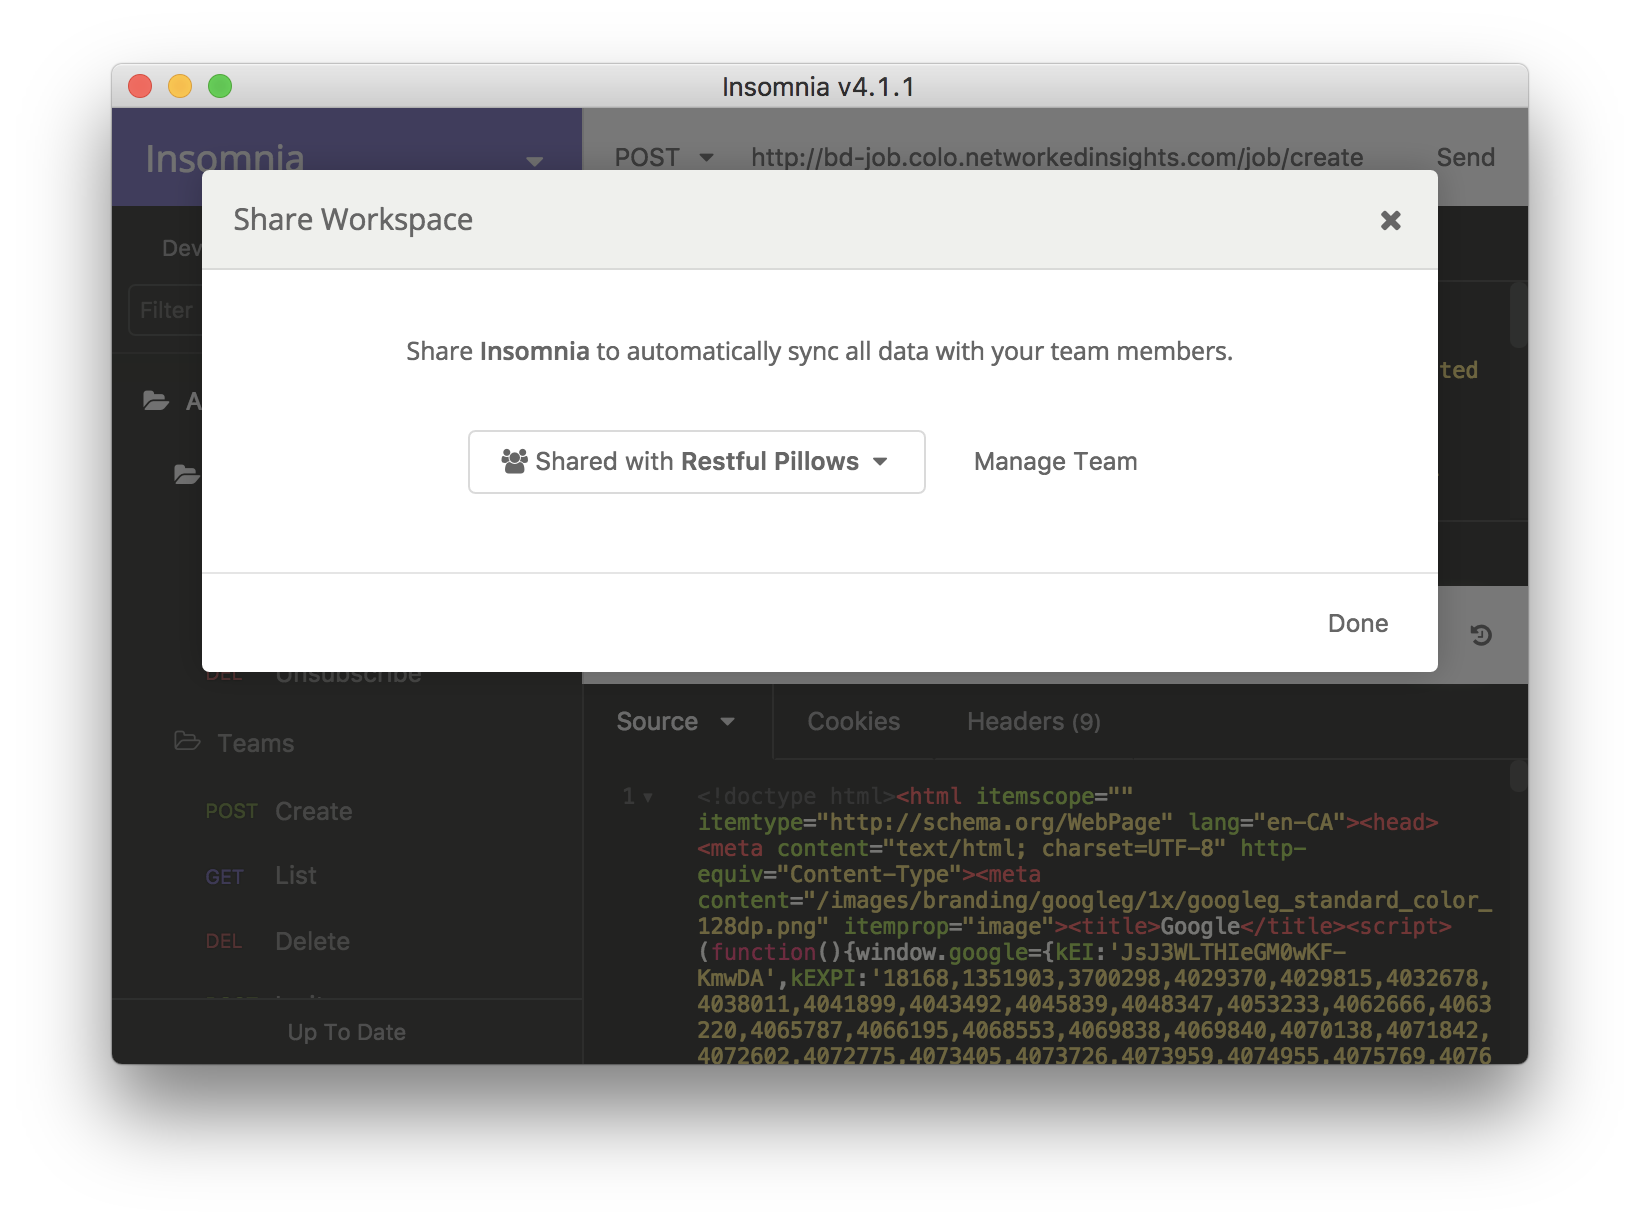
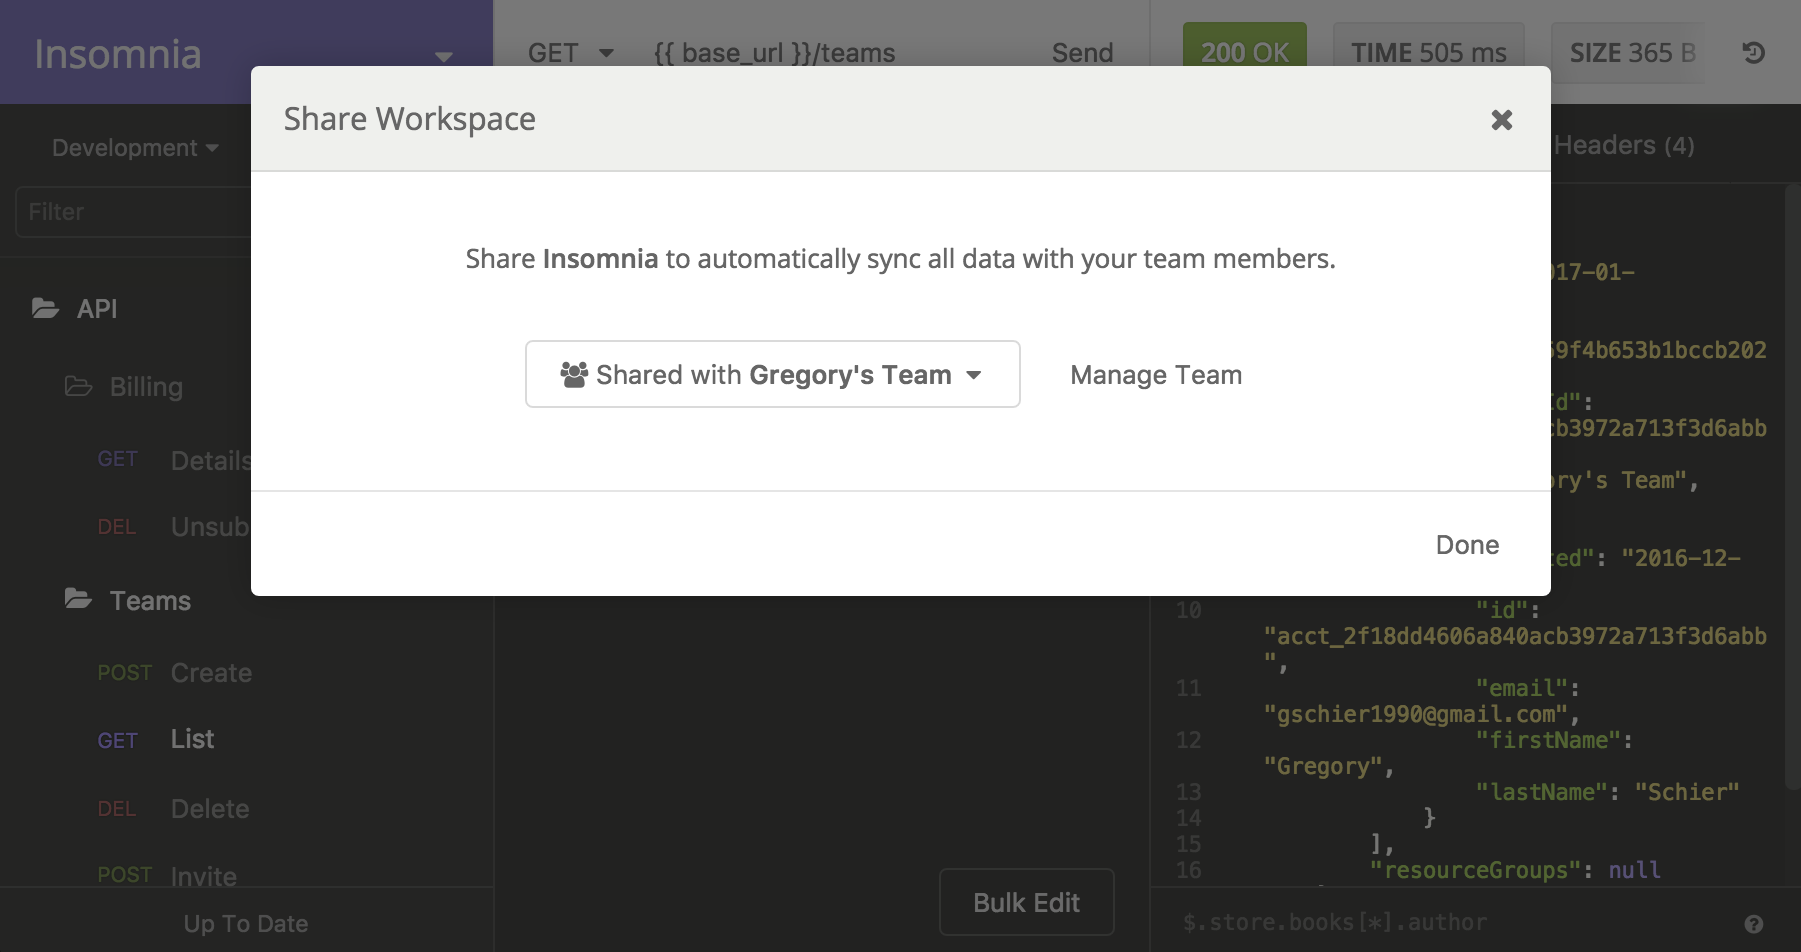
New teams and plus pages

diff --git a/themes/hugo-insomnia-theme/layouts/splash/single.html b/themes/hugo-insomnia-theme/layouts/splash/single.html
@@ -1,0 +1,53 @@
+{{ partial "head" . }}
+<body class="floating-navbar template-splash">
+
+{{ partial "navbar" . }}
+
+<div class="jumbotron">
+  <div class="container">
+    <div class="row">
+      <div class="col-12 center">
+        <h1>
+          {{ .Title }}
+        </h1>
+        <h2 class="font-light">
+          {{ .Params.subtitle }}
+        </h2>
+        <a href="{{ .Params.cta.href }}" class="button">{{ .Params.cta.text }}</a>
+      </div>
+    </div>
+    <div class="jumbotron__img-container">
+      <img src="{{ .Params.image.src }}" class="jumbotron__img" alt="{{ .Params.image.alt }}"/>
+    </div>
+  </div>
+</div>
+
+<main role="main">
+  <section class="center no-margin padding-bottom padding-top">
+    <div class="container">
+      {{ .Content }}
+    </div>
+  </section>
+</main>
+
+<section class="dark no-margin padding-bottom padding-top">
+  <div class="container">
+    <div class="row center">
+      <div class="col-8">
+        <p class="no-margin" style="margin: 0.6rem;">
+          Want to talk more? Just reach out, I'd love to help!
+        </p>
+      </div>
+      <div class="col-4">
+        {{ partial "contact-button" . }}
+      </div>
+    </div>
+  </div>
+</section>
+
+{{ partial "footer" . }}
+{{ partial "js" . }}
+
+</body>
+</html>
+

diff --git a/themes/hugo-insomnia-theme/static/css/base.css b/themes/hugo-insomnia-theme/static/css/base.css
@@ -914,7 +914,12 @@ body.template-skinny main {
     margin-right: auto;
 }
 
+body.template-splash main h2 {
+    margin-top: 4rem;
+}
+
 body.template-changelog main .container,
+body.template-splash main .container,
 body.template-blog main .container {
     max-width: 44rem;
     margin-left: auto;

diff --git a/static/css/main.css b/static/css/main.css
@@ -64,7 +64,7 @@ img.jumbotron__icon {
     left: 1.5rem;
     right: 1.5rem;
     height: 0;
-    max-width: 57rem;
+    max-width: 55rem;
     margin: auto;
 }
 

diff --git a/layouts/index.html b/layouts/index.html
@@ -1,5 +1,5 @@
 {{ partial "head" . }}
-<body class="floating-navbar">
+<body class="floating-navbar template-splash">
 
 {{ partial "navbar" . }}
 

diff --git a/content/teams.md b/content/teams.md
@@ -1,23 +1,35 @@
 ---
 title: Insomnia for Teams
-subTitle: Free 14 day trial, no credit card required!
-type: skinny
 slug: teams
+subTitle: Create a team, and get in sync
+type: splash
+cta:
+    text: Get Started with Teams
+    href: /pricing/
+image: 
+    alt: Insomnia team sharing menu
+    src: /images/screens/sharing.png
 ---
 
-Insomnia for Teams allows you to focus on your work. Stop waisting time manually exporting
-and emailing around. Just use sync and get back to work.
+## Collaborate on API workspaces
 
-## Start Using Teams Now
+Create a team, invite your coworkers, and share API workspaces. Any 
+changes made will be seamlessly and securely synced between all members, 
+making collaboration a breeze.
+
+**Automatic or manual sync** &nbsp;&#128368;&nbsp; choose when to share
+
+**End-to-end encryption** &nbsp;&#128272;&nbsp; know your data is safe
+
+**Sync unlimited workspaces** &nbsp;&#128640;&nbsp; never worry about limits
+
+---
+
+## Start using Teams for free
 
 Sign up to start a 14-day free trial (no credit card required).
 
 <p style="text-align:center">
+<br>
 <a class="button" href="/pricing/">Sign Up for Teams</a>
 </p>
-
-![Insomnia Share Workspace](/images/screens/sharing.png)
-
-If you have any questions in the meantime, feel free to 
-[send an email](/documentaton/support-and-feedback/) with any questions or 
-concerns you may have.

diff --git a/content/plus.md b/content/plus.md
@@ -1,11 +1,34 @@
 ---
-title: "Insomnia Plus"
-slug: "plus"
-subTitle: "Please Sign Up Within The App"
+title: Insomnia Plus
+slug: plus
+subTitle: Your API workspaces, backed up and in sync
+type: splash
+cta:
+    text: Get Started with Plus
+    href: /pricing/
+image: 
+    alt: Insomnia plus 
+    src: /images/screens/main.png
 ---
 
-<img alt="Thank You" src="https://media.giphy.com/media/TlK63EXvLD0en57UJDa/giphy.gif" style="max-height: 200px"/>
+## Sync your API workspaces across devices
 
-<p class="center">
-<a href="/documentation/plus" class="button">View Documentation</a>
+Create an account, log in, and relax. With Plus, your application data will be automatically
+backed on the cloud and synced across all of your devices.
+
+**Automatic or manual sync** &nbsp;&#128368;&nbsp; choose when to sync
+
+**End-to-end encryption** &nbsp;&#128272;&nbsp; know your data is safe
+
+**Sync unlimited data** &nbsp;&#128640;&nbsp; never worry about limits
+
+---
+
+## Start using Plus for free
+
+Sign up to start a 14-day free trial (no credit card required).
+
+<p style="text-align:center">
+<br>
+<a class="button" href="/pricing/">Sign Up for Plus</a>
 </p>

diff --git a/content/changelog-json/v4.1.1.md b/content/changelog-json/v4.1.1.md
@@ -3,7 +3,7 @@ date: 2017-01-11
 title: Insomnia v4.1.1 Release
 slug: 4.1.1
 summary: Welcome to 2017. This update brings support for Team sync and collaboration! 
-link: https://insomnia.rest/documentation/teams/
+link: https://insomnia.rest/teams/
 major:
 - Support for Insomnia Teams 
 minor:

diff --git a/content/changelog/v4.1.1.md b/content/changelog/v4.1.1.md
@@ -3,7 +3,7 @@ date: 2017-01-11
 title: Insomnia v4.1.1 Release
 slug: 4.1.1
 summary: Welcome to 2017. This update brings support for Team sync and collaboration! 
-link: https://insomnia.rest/documentation/teams/
+link: https://insomnia.rest/teams/
 major:
 - Support for Insomnia Teams 
 minor:
